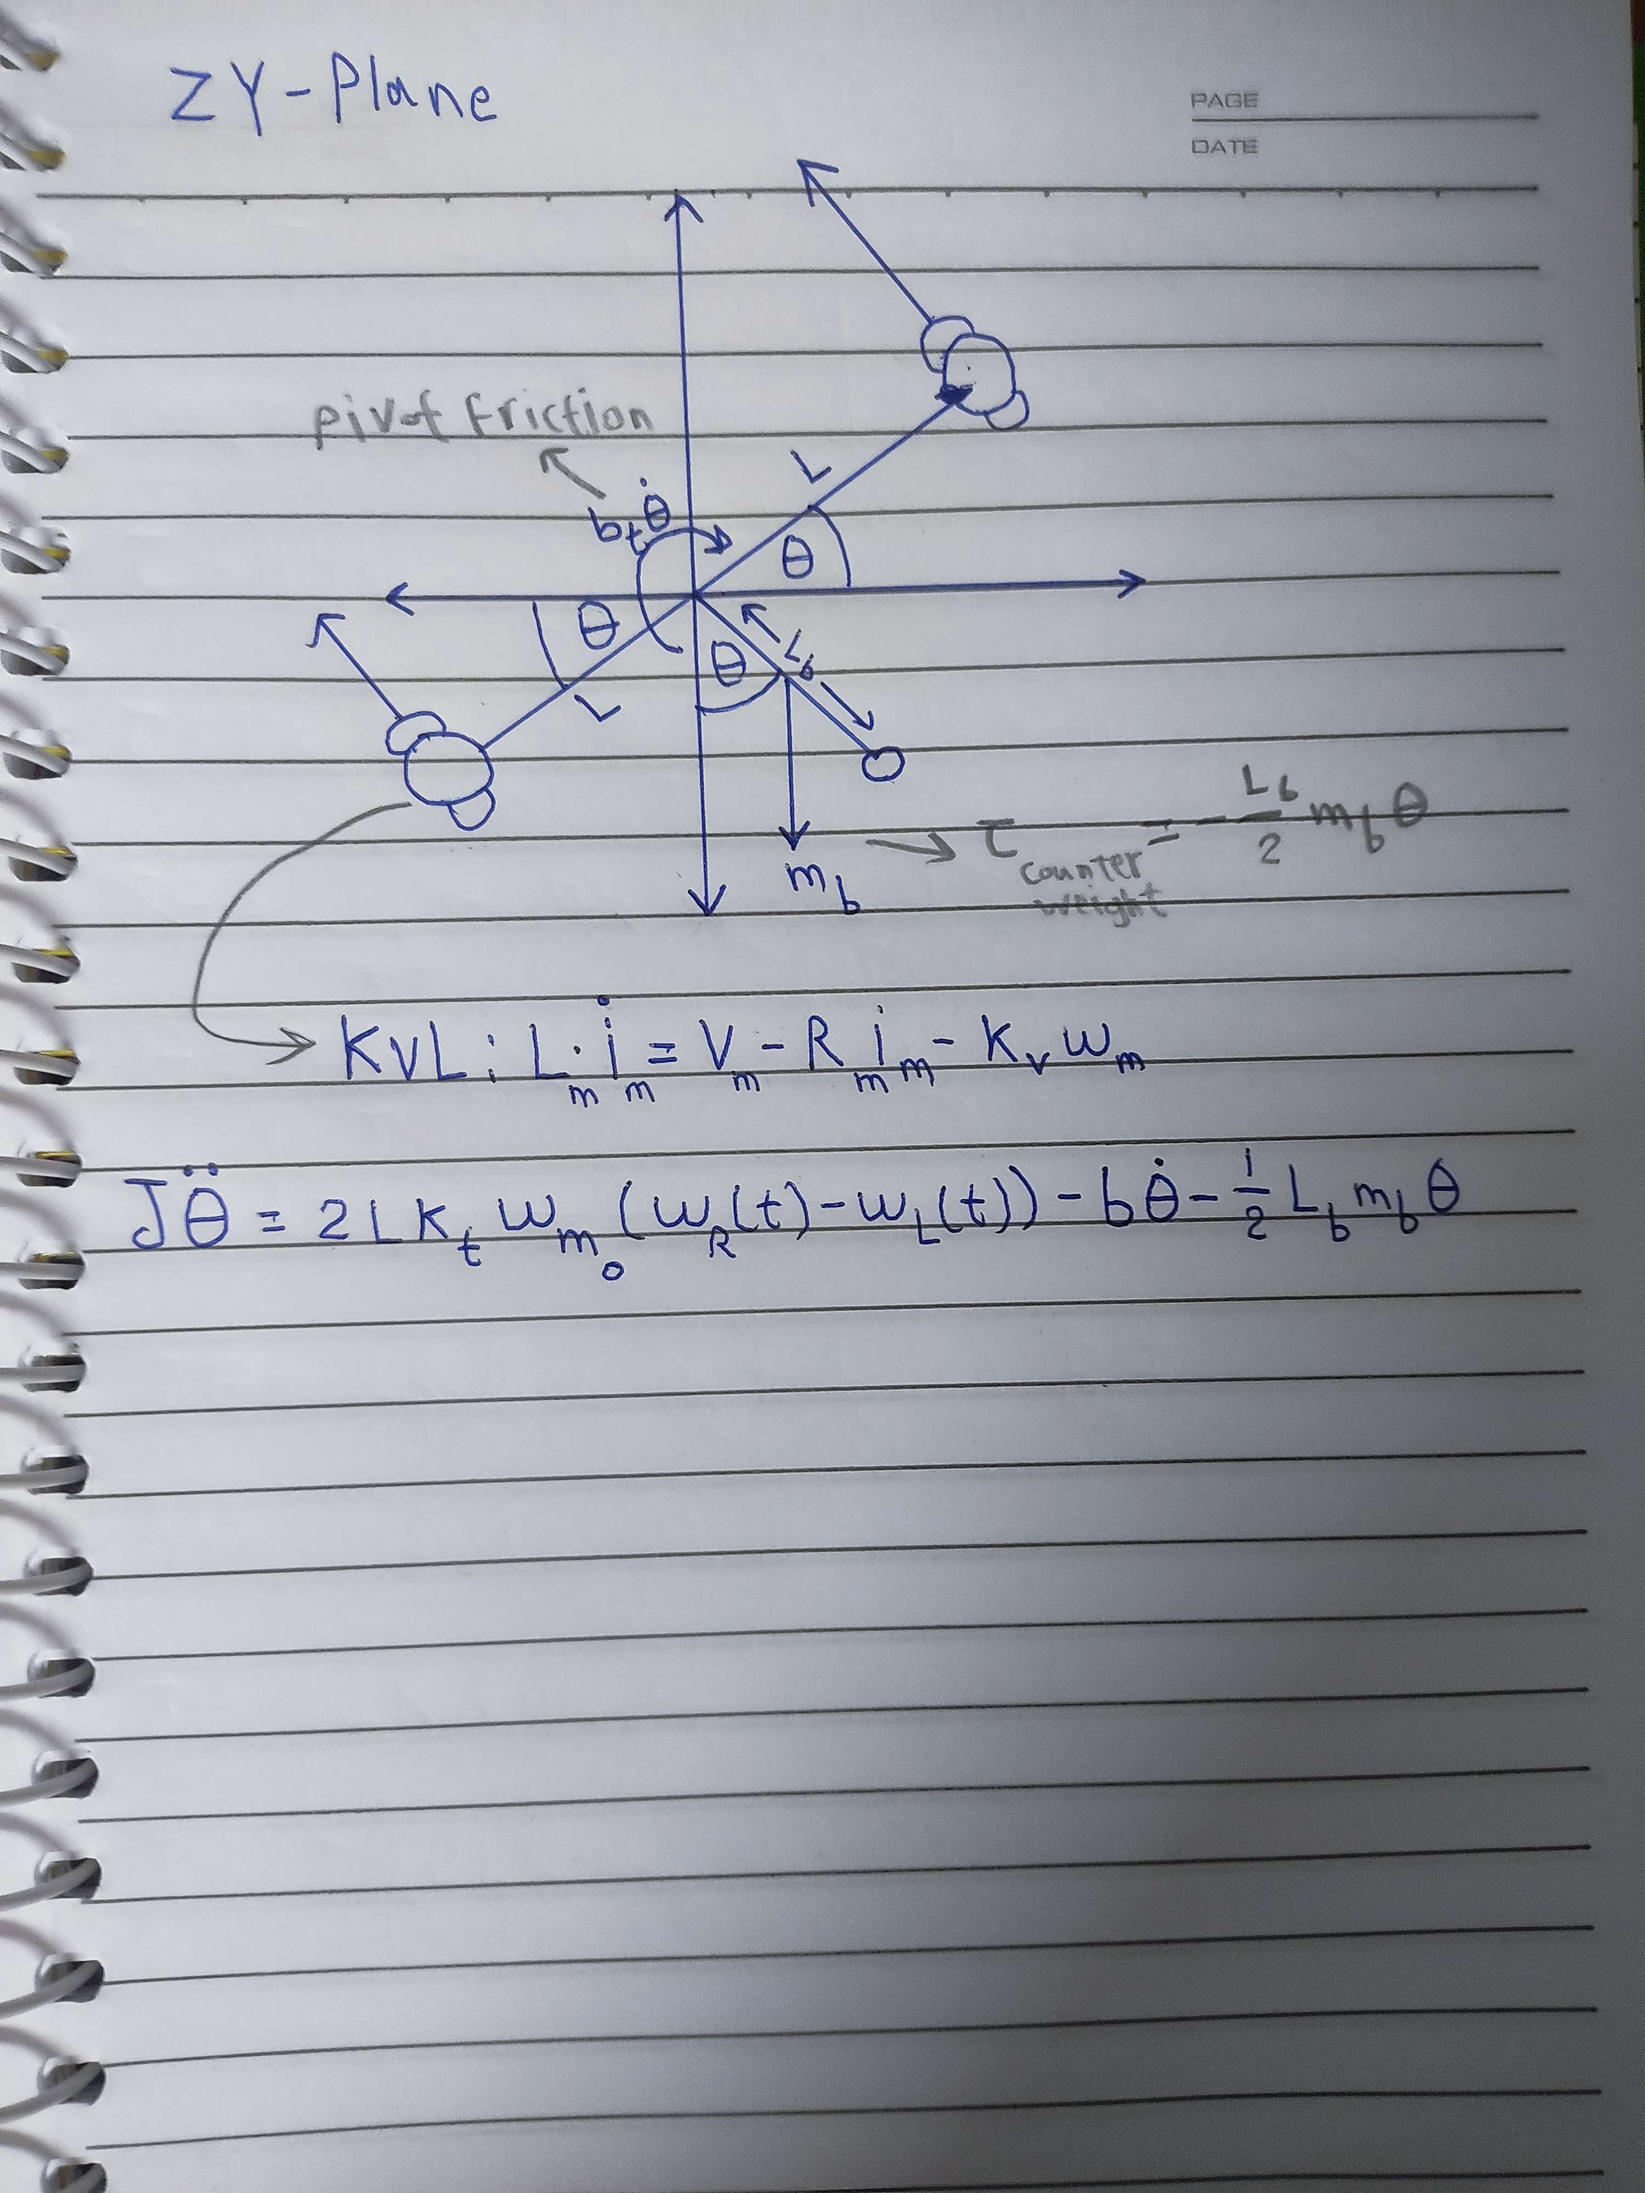
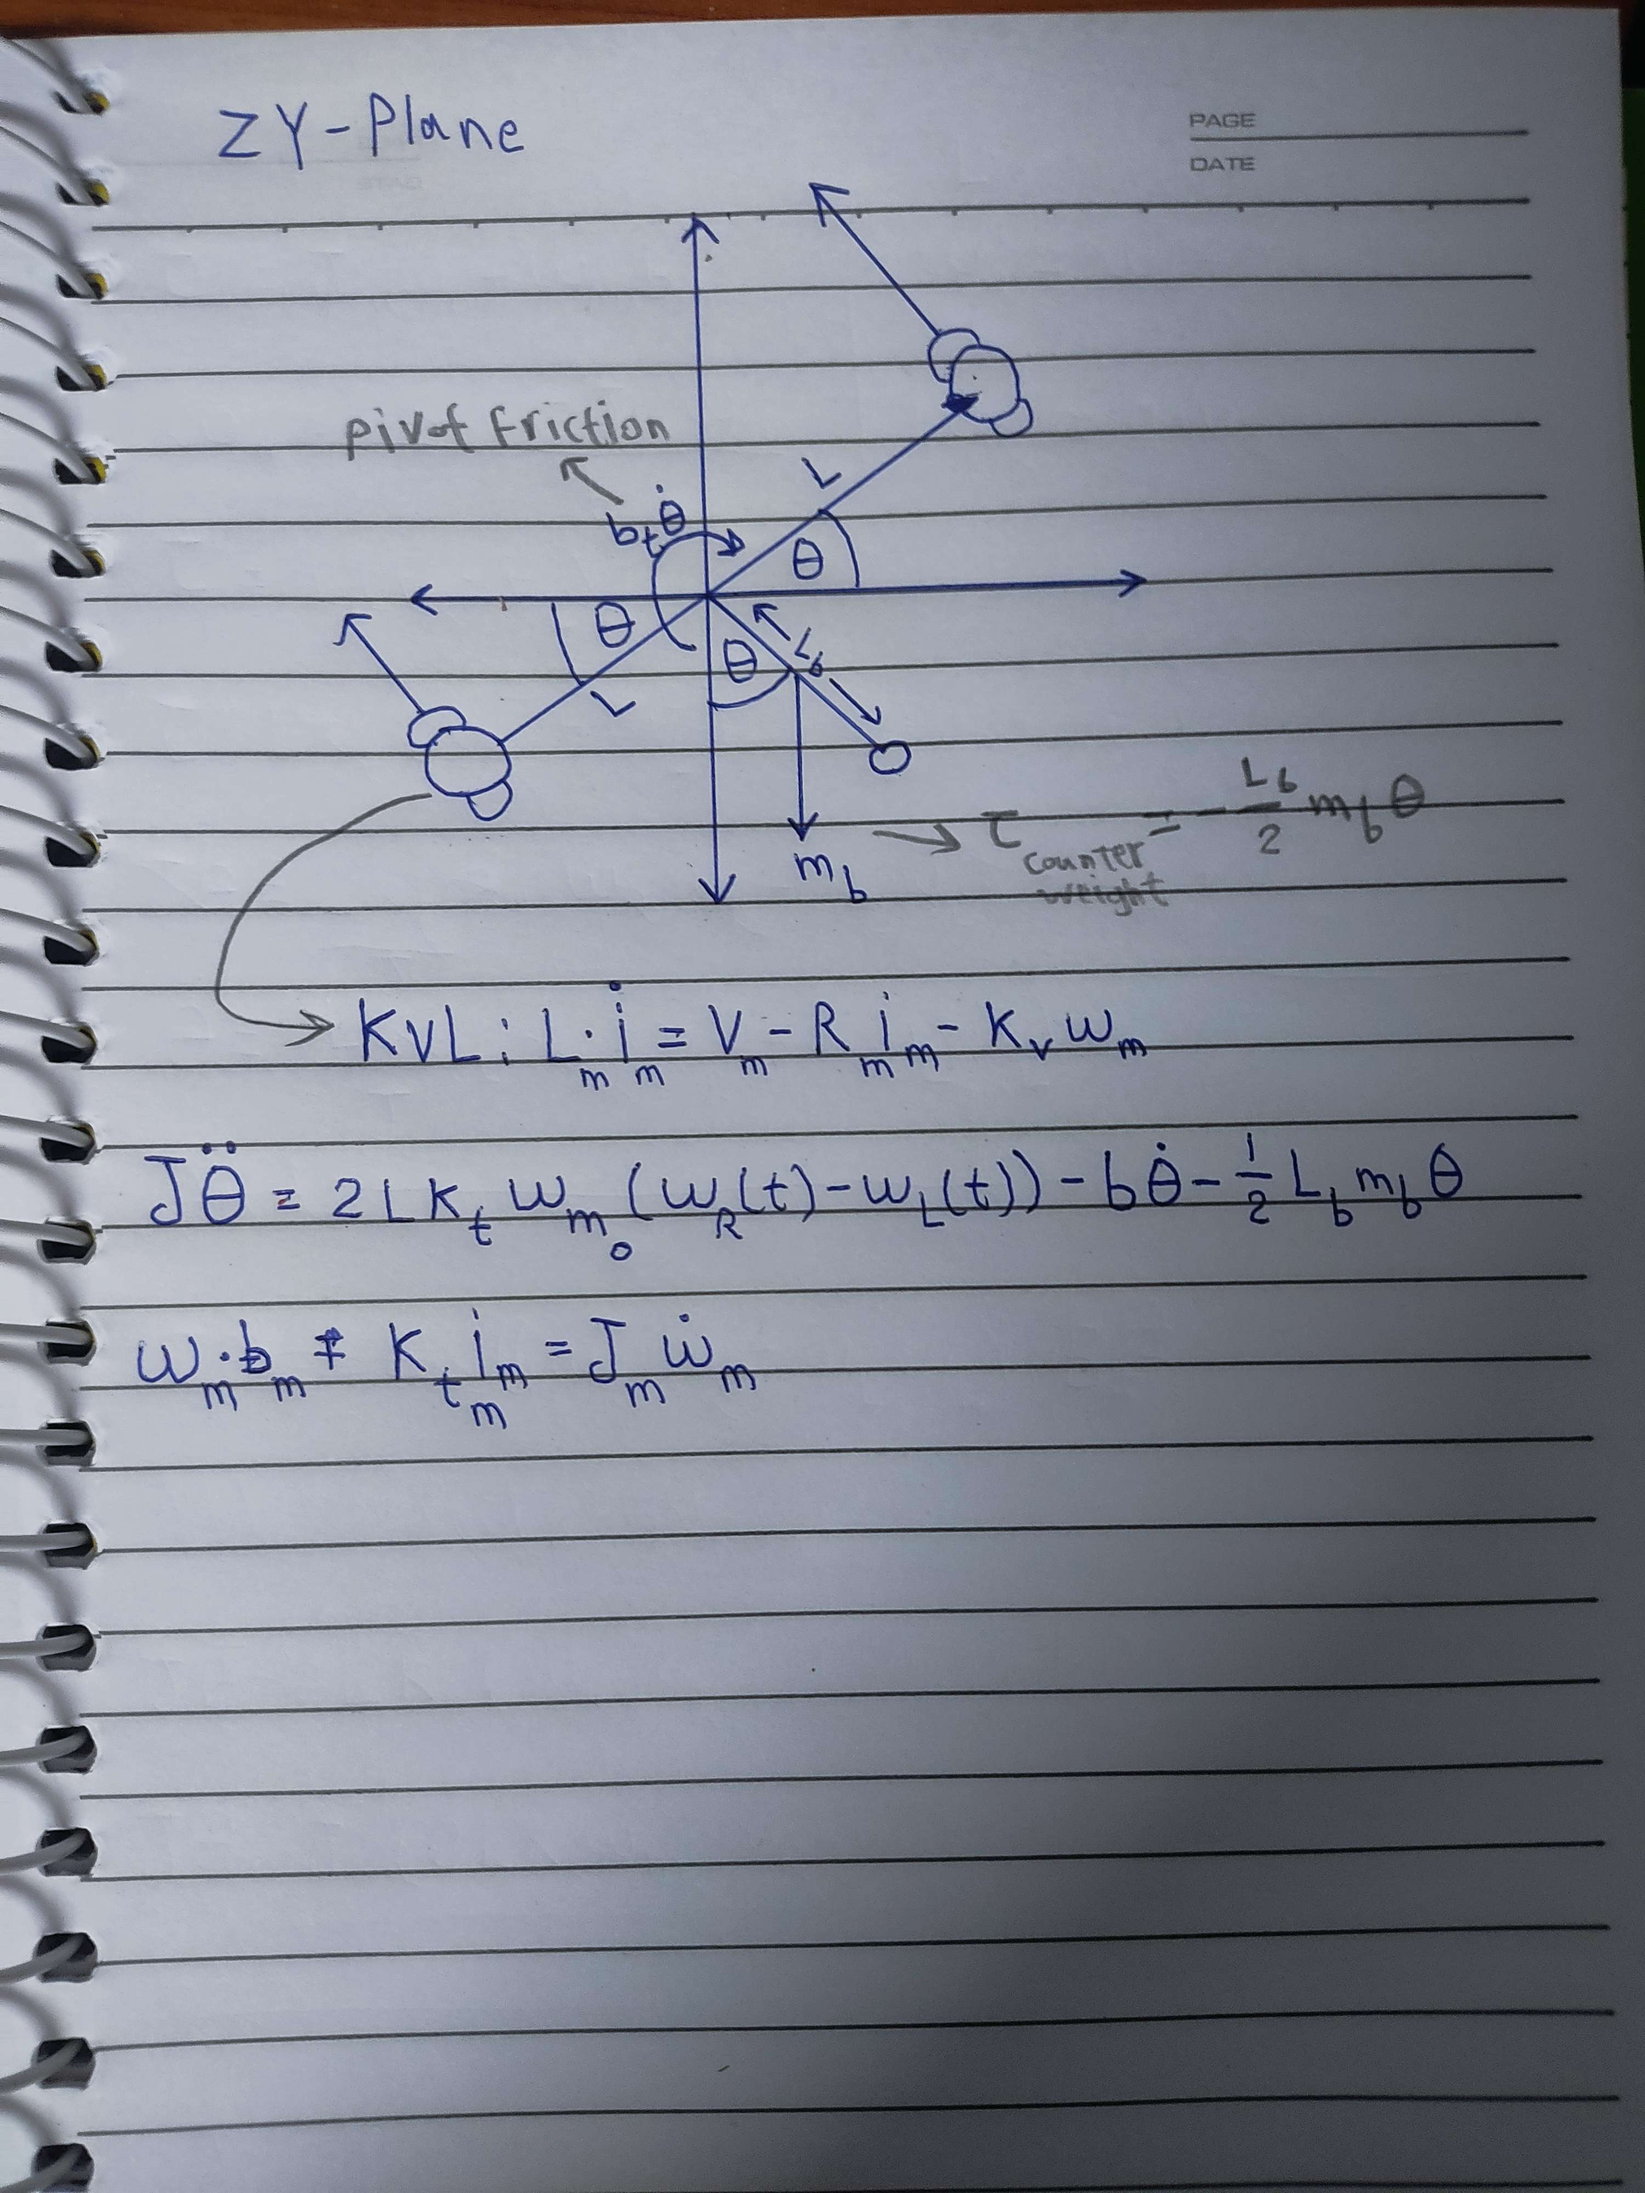
Fixed parameters and model

diff --git a/Figures/Simulation1_MATLAB.m b/Figures/Simulation1_MATLAB.m
@@ -1,0 +1,7 @@
+R = 8;
+Lm = 860e-6;
+btm = 2.348e-9;
+Kv = 0.0202;
+Ktm = 20.2e-3;
+Jm = 172e-6;
+J = 58.23e-3;
